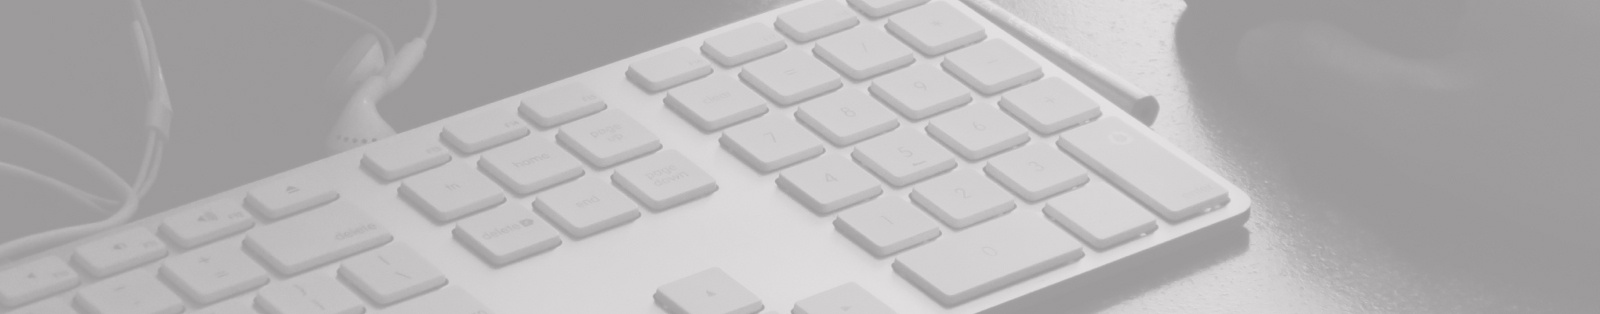
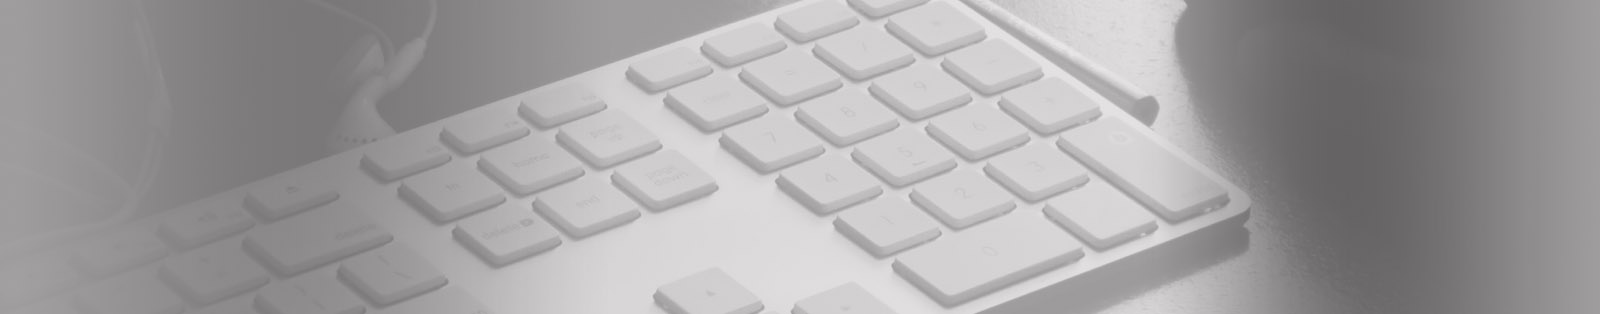
Modification image CSS

diff --git a/wp-content/themes/portfolio/style.css b/wp-content/themes/portfolio/style.css
@@ -221,20 +221,25 @@ nav.nav-top ul.menu a:hover {
   margin: 46px 22px 0 22px;
 }
 /* line 120, sass/_home.scss */
-.list-home-realisation .block-realisation img {
+.list-home-realisation .block-realisation .filtre {
   width: 294px;
   height: 195px;
+  background: #000;
+  filter: progid:DXImageTransform.Microsoft.Alpha(Opacity=50);
+  opacity: 0.5;
+  display: none;
 }
-/* line 125, sass/_home.scss */
-.list-home-realisation .block-realisation:hover img {
+/* line 128, sass/_home.scss */
+.list-home-realisation .block-realisation:hover .filtre {
+  display: block;
   -webkit-filter: contrast(30%);
   filter: contrast(30%);
 }
-/* line 126, sass/_home.scss */
+/* line 132, sass/_home.scss */
 .list-home-realisation .block-realisation:hover .info-realisation {
   display: block;
 }
-/* line 129, sass/_home.scss */
+/* line 135, sass/_home.scss */
 .list-home-realisation .info-realisation {
   width: 100%;
   text-align: center;
@@ -248,22 +253,22 @@ nav.nav-top ul.menu a:hover {
   top: 0;
   margin-top: 70px;
 }
-/* line 141, sass/_home.scss */
+/* line 147, sass/_home.scss */
 .list-home-realisation .info-realisation span {
   display: block;
 }
 
-/* line 145, sass/_home.scss */
+/* line 151, sass/_home.scss */
 .list-realisation {
   width: 1170px;
   min-height: 750px;
 }
-/* line 148, sass/_home.scss */
+/* line 154, sass/_home.scss */
 .list-realisation a {
   display: block;
   text-decoration: none;
 }
-/* line 152, sass/_home.scss */
+/* line 158, sass/_home.scss */
 .list-realisation .block-realisation {
   float: left;
   width: 292px;
@@ -271,21 +276,21 @@ nav.nav-top ul.menu a:hover {
   position: relative;
   cursor: pointer;
 }
-/* line 158, sass/_home.scss */
+/* line 164, sass/_home.scss */
 .list-realisation .block-realisation img {
   width: 292px;
   height: 195px;
 }
-/* line 163, sass/_home.scss */
+/* line 169, sass/_home.scss */
 .list-realisation .block-realisation:hover img {
   -webkit-filter: contrast(30%);
   filter: contrast(30%);
 }
-/* line 164, sass/_home.scss */
+/* line 170, sass/_home.scss */
 .list-realisation .block-realisation:hover .info-realisation {
   display: block;
 }
-/* line 167, sass/_home.scss */
+/* line 173, sass/_home.scss */
 .list-realisation .info-realisation {
   width: 100%;
   text-align: center;
@@ -299,25 +304,25 @@ nav.nav-top ul.menu a:hover {
   top: 0;
   margin-top: 70px;
 }
-/* line 179, sass/_home.scss */
+/* line 185, sass/_home.scss */
 .list-realisation .info-realisation span {
   display: block;
 }
 
-/* line 183, sass/_home.scss */
+/* line 189, sass/_home.scss */
 .form-realisation {
   height: auto;
   background-color: #fafafa;
   border-left: 2px solid #e6e6e6;
   border-right: 2px solid #e6e6e6;
 }
-/* line 188, sass/_home.scss */
+/* line 194, sass/_home.scss */
 .form-realisation form {
   width: 1000px;
   height: auto;
   margin: auto;
 }
-/* line 193, sass/_home.scss */
+/* line 199, sass/_home.scss */
 .form-realisation h2 {
   width: 400px;
   margin: auto;
@@ -328,39 +333,39 @@ nav.nav-top ul.menu a:hover {
   font-size: 48px;
   color: #494949;
 }
-/* line 203, sass/_home.scss */
+/* line 209, sass/_home.scss */
 .form-realisation .acf-field {
   float: left;
 }
-/* line 205, sass/_home.scss */
+/* line 211, sass/_home.scss */
 .form-realisation .acf-field > .acf-input {
   float: left;
   width: 680px;
 }
-/* line 208, sass/_home.scss */
+/* line 214, sass/_home.scss */
 .form-realisation .acf-field > .acf-input input[type="text"], .form-realisation .acf-field > .acf-input input[type="url"], .form-realisation .acf-field > .acf-input select {
   height: 40px;
   line-height: 40px;
 }
-/* line 213, sass/_home.scss */
+/* line 219, sass/_home.scss */
 .form-realisation .acf-field.field_type-repeater {
   float: none;
   clear: both;
 }
-/* line 217, sass/_home.scss */
+/* line 223, sass/_home.scss */
 .form-realisation .acf-field.field_type-repeater table td {
   line-height: 40px;
 }
-/* line 218, sass/_home.scss */
+/* line 224, sass/_home.scss */
 .form-realisation .acf-field.field_type-repeater table .acf-input {
   float: none;
   width: 200px;
 }
-/* line 222, sass/_home.scss */
+/* line 228, sass/_home.scss */
 .form-realisation .acf-field.field_type-repeater table .acf-field {
   float: none;
 }
-/* line 228, sass/_home.scss */
+/* line 234, sass/_home.scss */
 .form-realisation .acf-label {
   line-height: 58px;
   display: block;
@@ -372,7 +377,7 @@ nav.nav-top ul.menu a:hover {
   font-size: 30px;
   padding-right: 27px;
 }
-/* line 239, sass/_home.scss */
+/* line 245, sass/_home.scss */
 .form-realisation .acf-form-submit {
   clear: both;
   height: 50px;
@@ -380,7 +385,7 @@ nav.nav-top ul.menu a:hover {
   margin-top: 20px;
   margin-right: 100px;
 }
-/* line 245, sass/_home.scss */
+/* line 251, sass/_home.scss */
 .form-realisation .acf-form-submit input[type="submit"] {
   font-size: 18px;
   border: 2px solid black;
@@ -388,39 +393,38 @@ nav.nav-top ul.menu a:hover {
   height: 40px;
   margin-bottom: 32px;
 }
-/* line 251, sass/_home.scss */
+/* line 257, sass/_home.scss */
 .form-realisation .acf-form-submit input[type="submit"]:hover {
   cursor: pointer;
 }
 
-/* line 256, sass/_home.scss */
+/* line 262, sass/_home.scss */
 .footer-bottom {
   width: auto;
   height: 300px;
-  background-color: #9f9d9d;
+  background-color: #dbdbdb;
   position: relative;
   clear: both;
 }
-/* line 262, sass/_home.scss */
+/* line 268, sass/_home.scss */
 .footer-bottom .container {
   height: 300px;
-  background: #9f9d9d url("img/footer.jpg") center no-repeat;
 }
-/* line 266, sass/_home.scss */
+/* line 272, sass/_home.scss */
 .footer-bottom .logo {
   float: left;
   width: 200px;
   padding-top: 225px;
 }
 
-/* line 273, sass/_home.scss */
+/* line 279, sass/_home.scss */
 .menu-footer-container {
   padding-top: 260px;
   width: 400px;
   margin-left: 525px;
   float: left;
 }
-/* line 278, sass/_home.scss */
+/* line 284, sass/_home.scss */
 .menu-footer-container a {
   font-family: Lato;
   font-weight: 700;
@@ -428,11 +432,11 @@ nav.nav-top ul.menu a:hover {
   color: #494949;
   text-decoration: none;
 }
-/* line 285, sass/_home.scss */
+/* line 291, sass/_home.scss */
 .menu-footer-container ul {
   width: 500px;
 }
-/* line 287, sass/_home.scss */
+/* line 293, sass/_home.scss */
 .menu-footer-container ul li {
   padding-left: 10px;
   padding-right: 10px;

diff --git a/wp-content/themes/portfolio/sass/_home.scss b/wp-content/themes/portfolio/sass/_home.scss
@@ -117,12 +117,18 @@ nav.nav-top{
 		width: 294px;
 		height: 195px;
 		margin: 46px 22px 0 22px;
-		img{
+		.filtre{
 			width: 294px;
 			height: 195px;
+			background: #000;
+			@include opacity(0.5);
+			display: none;
 		}
 		&:hover{
-			img{ @include filter(contrast(30%)); }
+			.filtre {
+				display: block;
+				@include filter(contrast(30%));
+			}
 			.info-realisation{ display: block; }
 		}
 	}
@@ -256,12 +262,12 @@ nav.nav-top{
 .footer-bottom{
 	width: auto;
 	height: 300px;
-	background-color: #9f9d9d;
+	background-color: #dbdbdb;
 	position: relative;
 	clear: both;
 	.container{
 		height: 300px;
-		background: #9f9d9d url('img/footer.jpg') center no-repeat;
+		//background: #9f9d9d url('img/footer.jpg') center no-repeat;
 	}
 	.logo{
 		float: left;

diff --git a/wp-content/themes/portfolio/content.php b/wp-content/themes/portfolio/content.php
@@ -8,14 +8,12 @@
 <!-- realisation -->
 <article id="post-<?php the_ID(); ?>" <?php post_class(); ?>>
 	<a href="<?php the_permalink() ?>">
-		<div class="block-realisation">
-			<?php if (!empty(get_field('image_principal', $post->ID))): ?>
-				<?php
-					$img_id = get_post_meta($post->ID, 'image_principal', true);
-					$img = wp_get_attachment_image_src($img_id, 'thumb_realisation_list');
-				?>
-				<img src="<?= $img[0]; ?>" alt="">
-			<?php endif; ?>
+		<?php
+			$img_id = get_post_meta($post->ID, 'image_principal', true);
+			$img = wp_get_attachment_image_src($img_id, 'thumb_realisation_list');
+		?>
+		<div class="block-realisation" style="background: url(<?= $img[0]; ?>); background-size: cover; background-position: center;">
+			<div class="filtre"></div>
 			<div class="info-realisation">
 				<span class="name"><?php the_title(); ?></span>
 				<span class="promotion">

diff --git a/wp-content/themes/portfolio/index.php b/wp-content/themes/portfolio/index.php
@@ -11,7 +11,7 @@ $technologies = get_terms('technologie', array('hide_empty' => 0));
 
 <?php $realisations = new WP_Query(array(
 			'post_type' => 'realisation',
-			'orderby' => array('rand'),
+			'orderby' => 'rand',
 			'posts_per_page' => 9,
 			'paged' => false,
 		)); ?>
